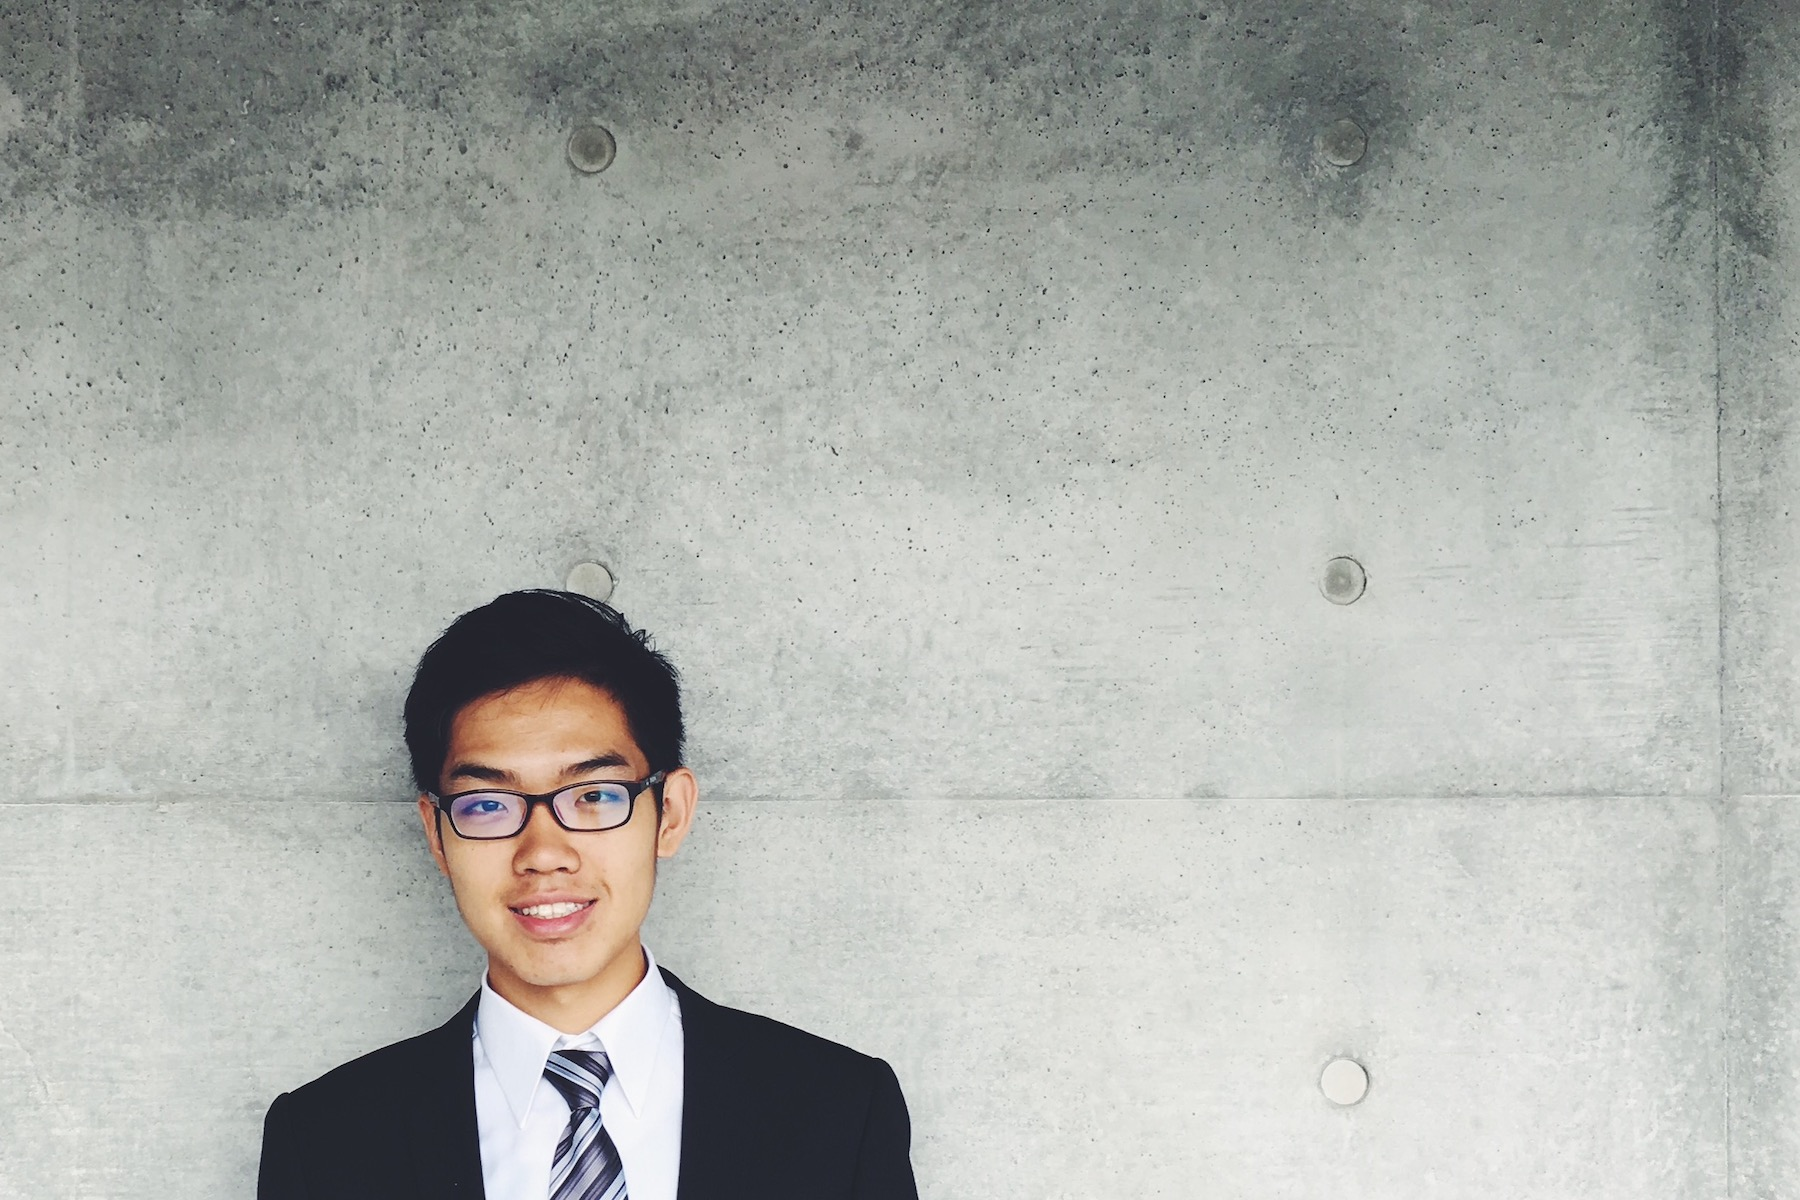
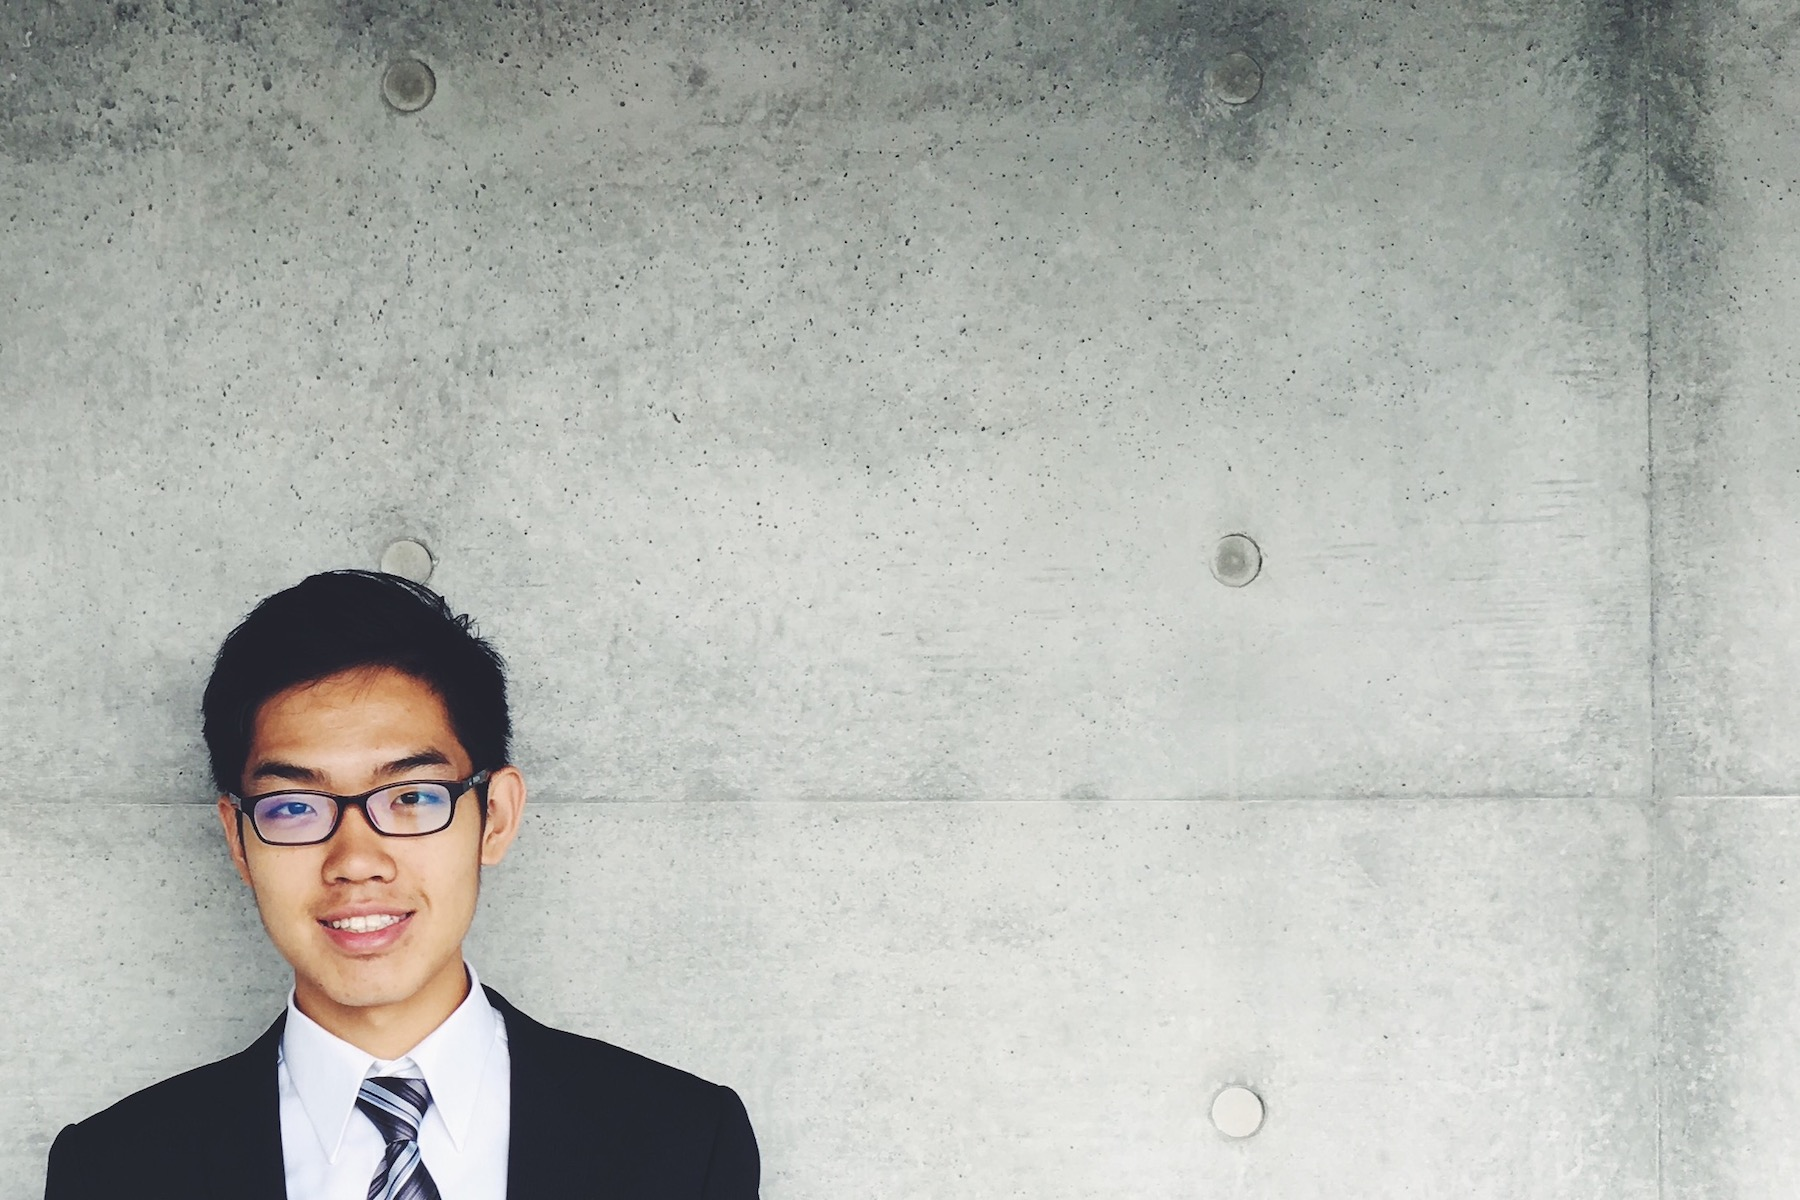
看你在這裡要打啥

diff --git a/main.css b/main.css
@@ -284,8 +284,8 @@ h2 {
 #abme{
 	background-image: url("FullSizeRender.jpg");
 	background-repeat: no-repeat;
-	background-position: bottom;
-	/*background-size: cover;*/
+	background-position: bottom right;
+	background-size: cover;
 	/*padding-top: 30px;*/
 
 }
